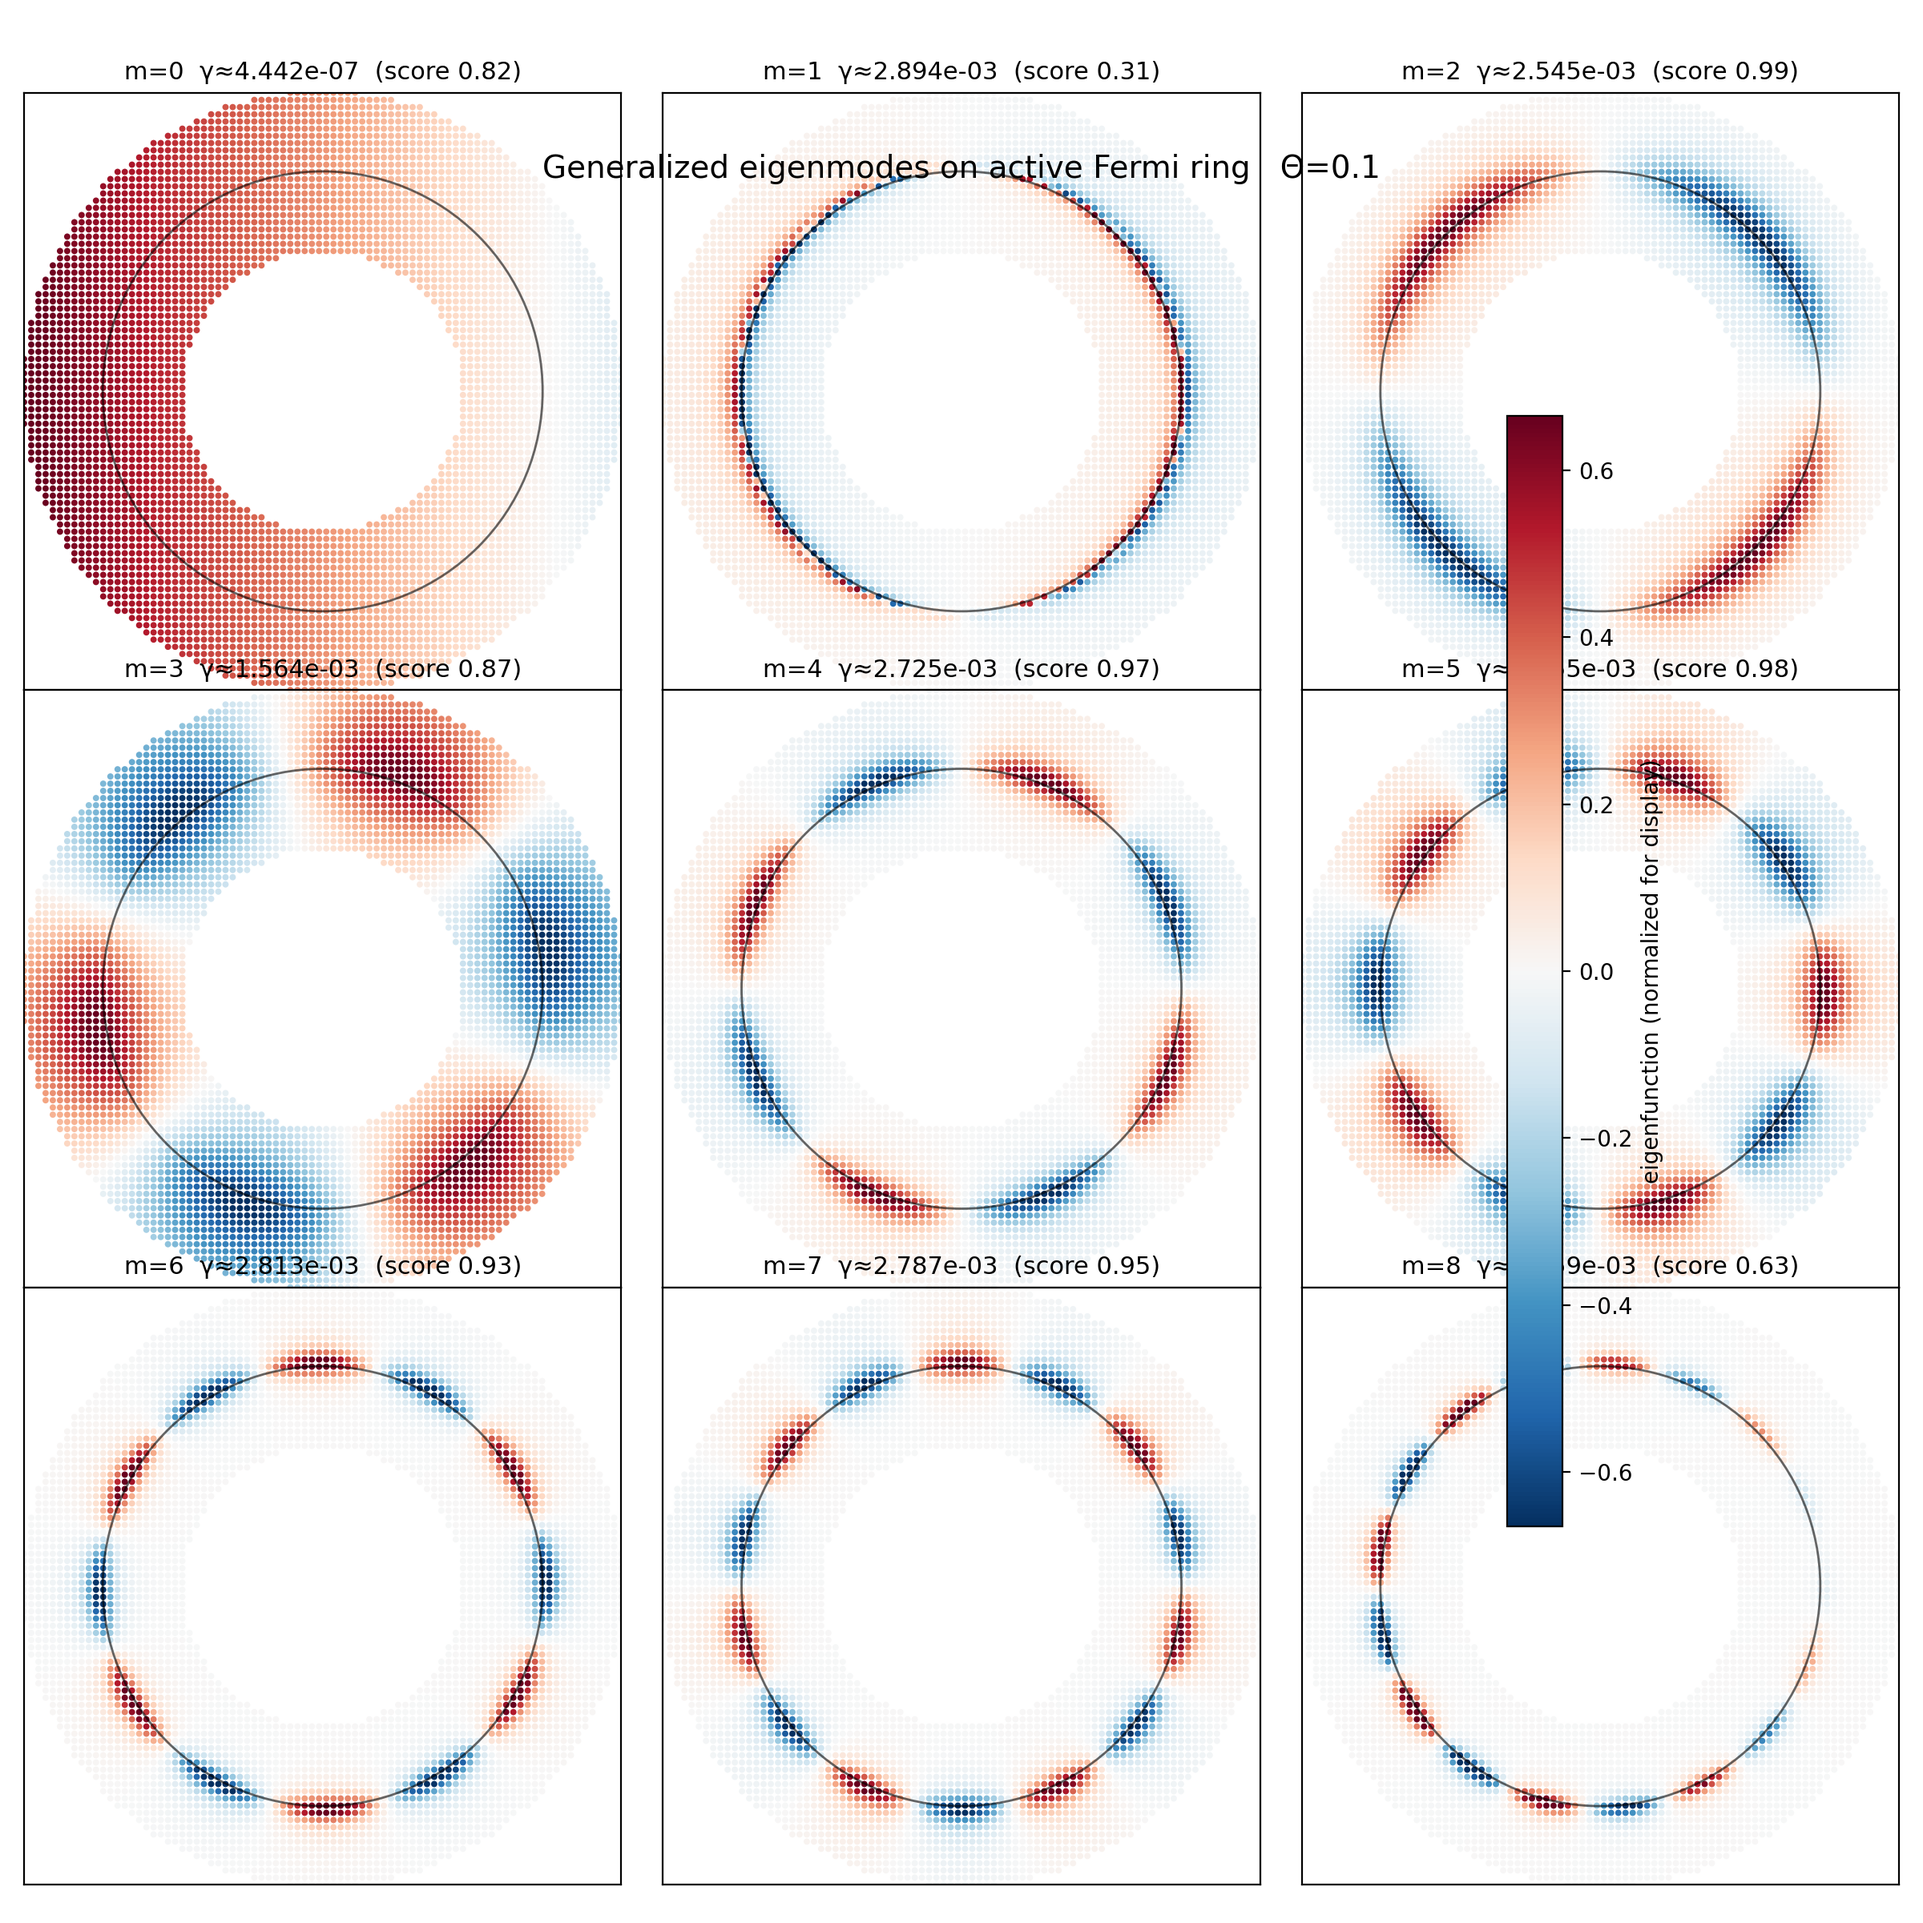
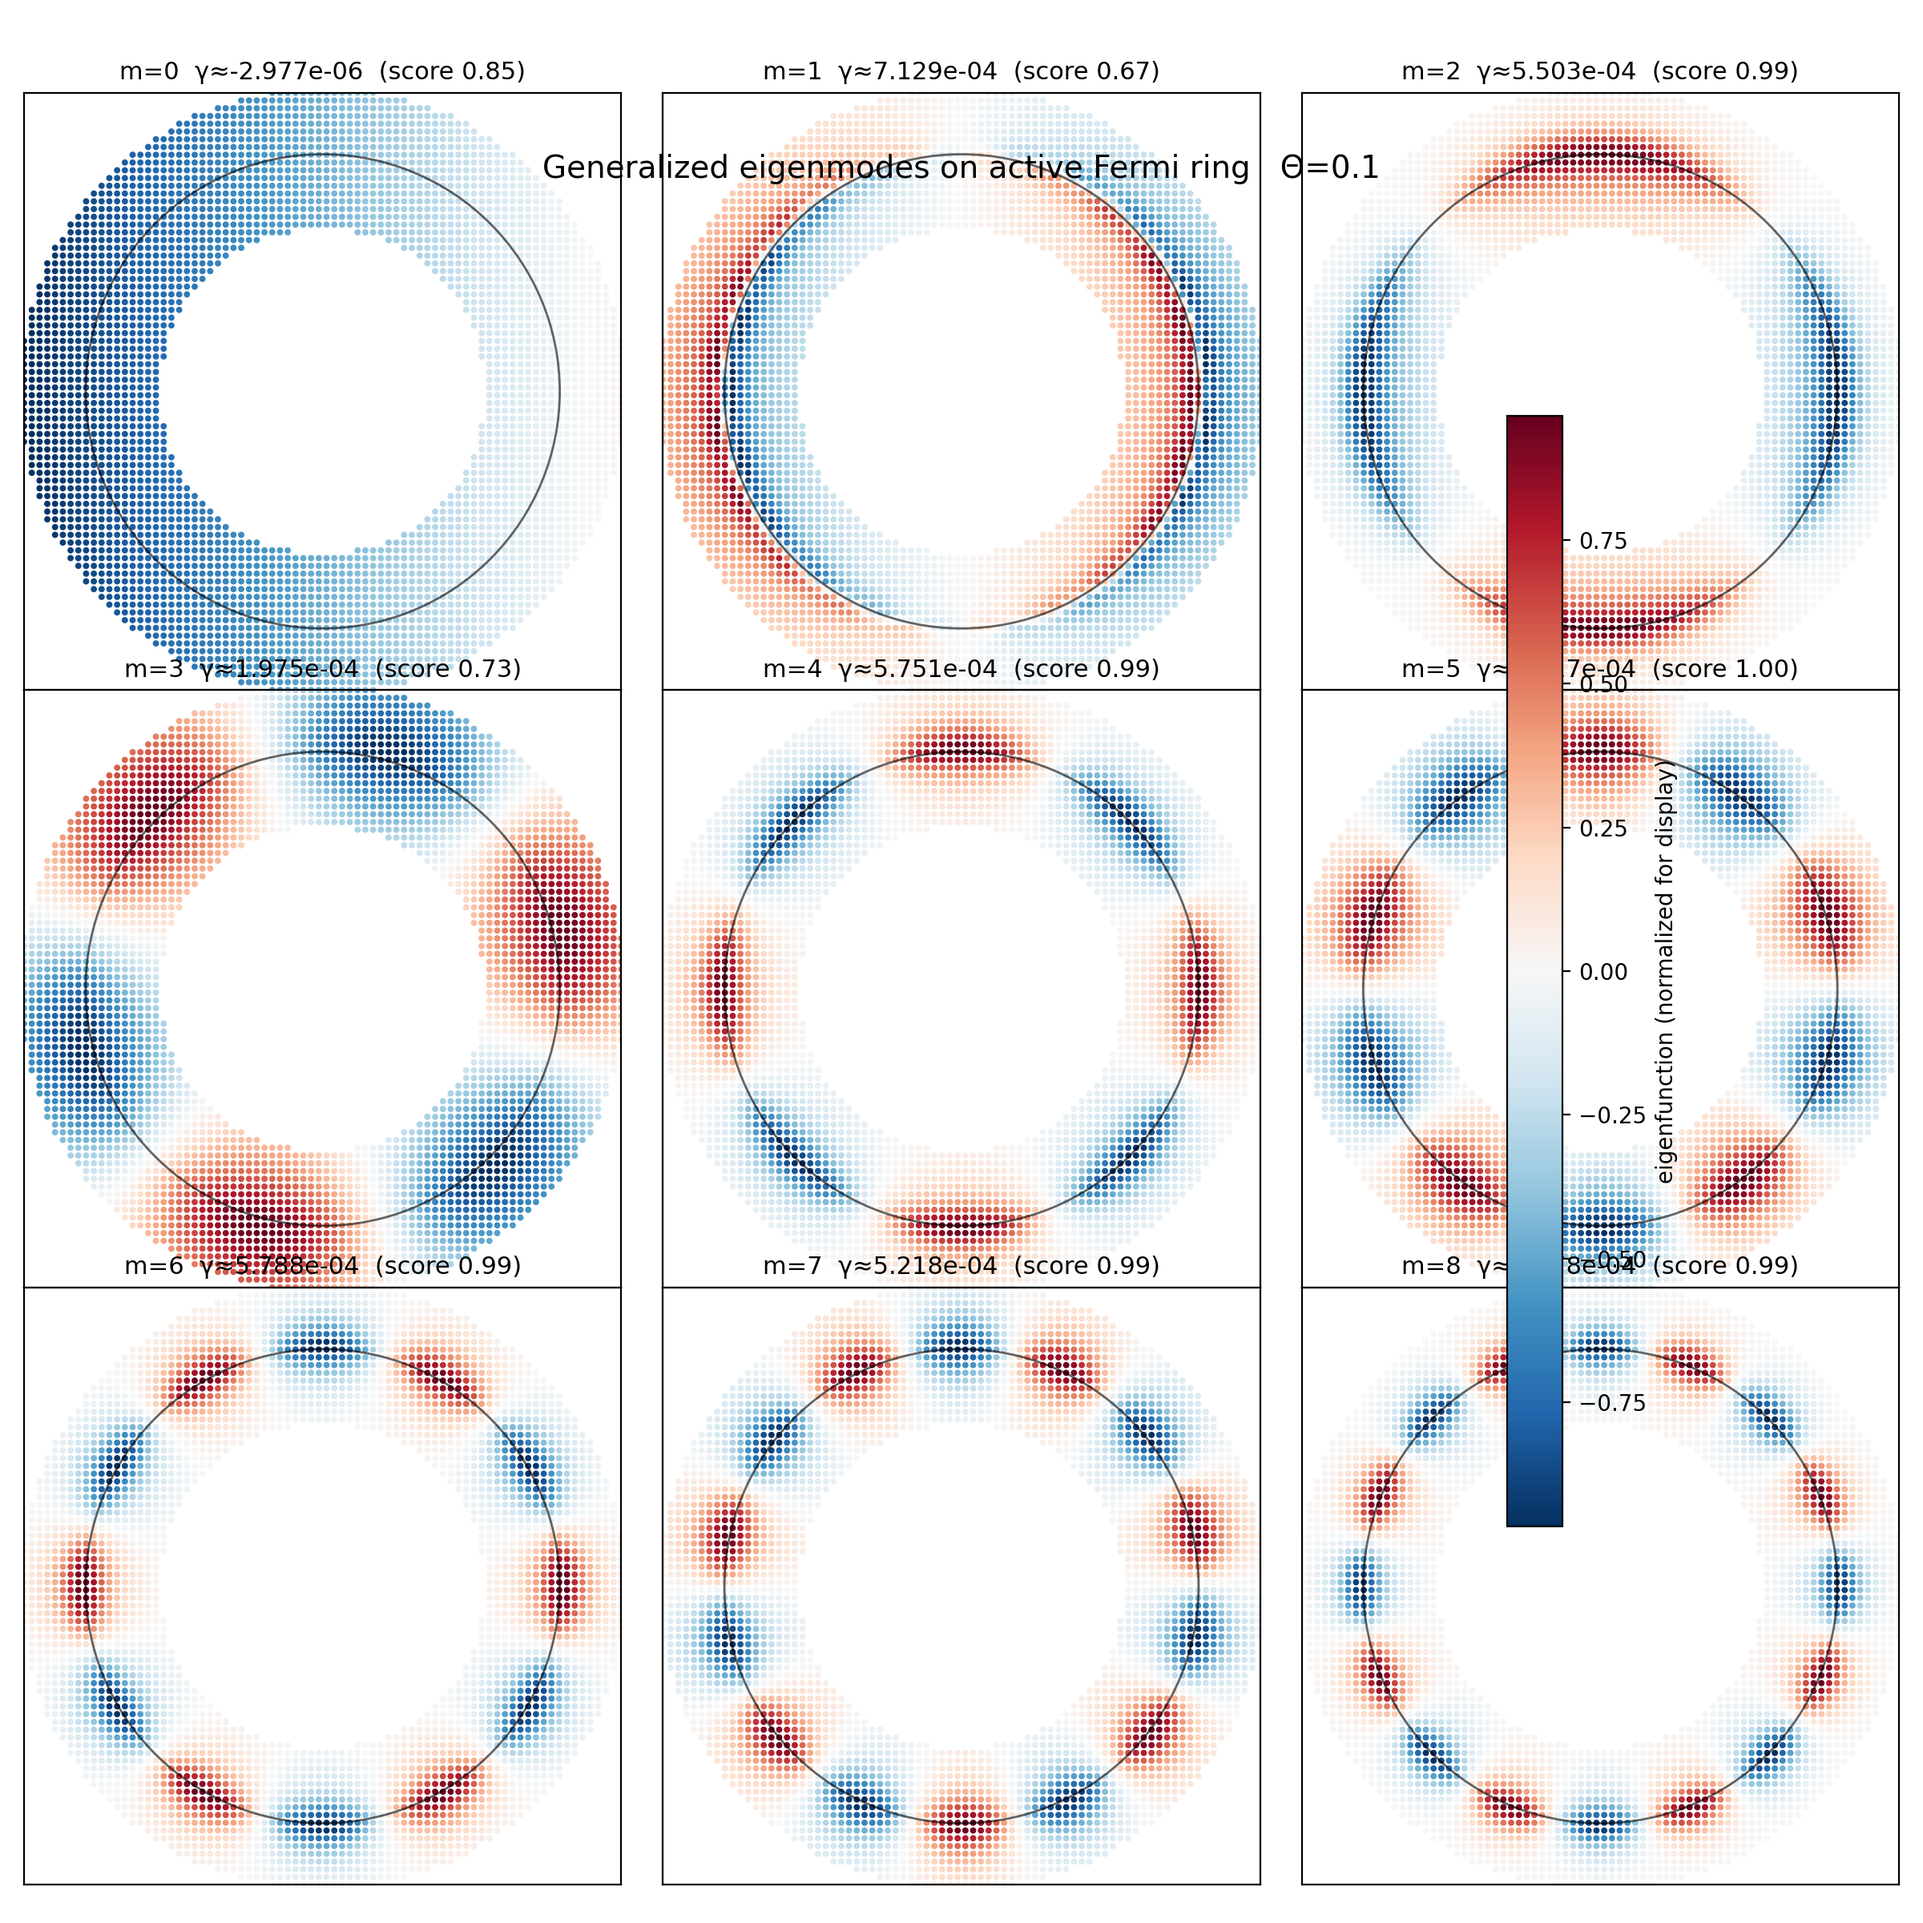
Clearer m detection (outdated)

Changed region(s): [[0.0, 0.0312, 0.7812, 1.0], [0.6875, 0.0312, 1.0, 0.9688]]

diff --git a/kryhin_levitov_2021/collision_integral_direct/Matrixes_bruteforce/Iee_eigs_ringplot_nonparabolic.py b/kryhin_levitov_2021/collision_integral_direct/Matrixes_bruteforce/Iee_eigs_ringplot_nonparabolic.py
@@ -36,6 +36,16 @@ from scipy.sparse.linalg import eigsh, LinearOperator
 
 import matplotlib.pyplot as plt
 
+# plt.rcParams['text.usetex'] = True
+plt.rcParams['font.family'] = 'serif'
+plt.rcParams["legend.frameon"] = False
+plt.rcParams['font.size'] = 16
+plt.rcParams['axes.labelsize'] = 16
+plt.rcParams['axes.titlesize'] = 16
+plt.rcParams['xtick.labelsize'] = 16
+plt.rcParams['ytick.labelsize'] = 16
+plt.rcParams['legend.fontsize'] = 16
+plt.rcParams['figure.titlesize'] = 16
 
 # ------------------------- band helpers (FULL dispersion) -------------------------
 
@@ -338,6 +348,11 @@ def pick_modes_by_overlap(gammas, eta, w, theta, px, py, P, meta, mmax=8, includ
     chosen = {}
     diag = {}
 
+    # Build invariant basis for orthogonalization (same as m>=2)
+    inv_basis = [t_den, t_px, t_py]
+    if include_energy_invariant:
+        inv_basis.append(t_E)
+
     # pick best eigenvector for each invariant by overlap, and mark as used
     if have_inv_evecs:
         # Find momentum invariants (and optionally energy)
@@ -373,12 +388,15 @@ def pick_modes_by_overlap(gammas, eta, w, theta, px, py, P, meta, mmax=8, includ
     else:
         # Momentum invariants were projected out; pick m=0 based on density availability
         if have_density_evec:
-            # Pick m=0 as best match to density template
+            # Apply same logic as m>=2: orthogonalize density template against other invariants
+            # Orthogonalize against momentum (and energy if included), but not against itself
+            t_den_ortho = orthogonalize_to_basis(t_den, [t_px, t_py] + ([t_E] if include_energy_invariant else []), w)
+            # Pick m=0 as best match to orthogonalized density template
             best_i, best_s = None, -1.0
             for i in range(k):
                 if i in used:
                     continue
-                s = abs(overlap(eta[:, i], t_den, w))
+                s = abs(overlap(eta[:, i], t_den_ortho, w))
                 if s > best_s:
                     best_s, best_i = s, i
             chosen[0] = best_i
@@ -430,13 +448,16 @@ def pick_modes_by_overlap(gammas, eta, w, theta, px, py, P, meta, mmax=8, includ
             "note": f"frac={frac:.3e} < {FRAC_THR}; current≈momentum",
         }
     else:
-        # use decaying-current mode from j_perp
+        # Apply same logic as m>=2: orthogonalize j_perp against full invariant basis
+        jperp_x_ortho = orthogonalize_to_basis(jperp_x, inv_basis, w)
+        jperp_y_ortho = orthogonalize_to_basis(jperp_y, inv_basis, w)
+        # use decaying-current mode from orthogonalized j_perp
         best_i, best_s = None, -1.0
         for i in range(k):
             if i in used:
                 continue
-            ovx = overlap(eta[:, i], jperp_x, w)
-            ovy = overlap(eta[:, i], jperp_y, w)
+            ovx = overlap(eta[:, i], jperp_x_ortho, w)
+            ovy = overlap(eta[:, i], jperp_y_ortho, w)
             s = float(np.sqrt(ovx * ovx + ovy * ovy))
             if s > best_s:
                 best_s, best_i = s, i
@@ -457,9 +478,7 @@ def pick_modes_by_overlap(gammas, eta, w, theta, px, py, P, meta, mmax=8, includ
 
     # ---------- Angular harmonics m>=2 ----------
     # Remove invariant subspace from angular templates to avoid accidentally selecting conserved modes
-    inv_basis = [t_den, t_px, t_py]
-    if include_energy_invariant:
-        inv_basis.append(t_E)
+    # (inv_basis already defined earlier)
 
     for m in range(2, mmax + 1):
         tc = orthogonalize_to_basis(np.cos(m * theta), inv_basis, w)
@@ -485,19 +504,40 @@ def pick_modes_by_overlap(gammas, eta, w, theta, px, py, P, meta, mmax=8, includ
 # ------------------------- plotting -------------------------
 
 def ring_scatter(ax, px, py, val, title=""):
-    # Robust color limits
-    vmax = np.percentile(np.abs(val), 99.0)
+    # Robust color limits, normalized *per panel*
+    vmax = float(np.max(np.abs(val))) if val.size > 0 else 1.0
     if vmax <= 0:
         vmax = 1.0
-    sc = ax.scatter(px, py, c=val, s=6, vmin=-vmax, vmax=vmax)
+    c_plot = val / vmax
+
+    # Choose square marker size based on number of k-points so the ring looks filled
+    n_pts = len(px)
+    if n_pts < 200:
+        msize = 60  # few points → make squares large
+    elif n_pts < 1000:
+        msize = 16  # typical resolution for these files
+    else:
+        msize = 6   # very dense sampling → smaller squares
+
+    # Use square "pixel-like" markers without edges to avoid white gaps between points
+    sc = ax.scatter(
+        px,
+        py,
+        c=c_plot,
+        s=msize,
+        marker="s",
+        cmap="RdBu_r",
+        linewidths=0,
+        edgecolors="none",
+    )
     ax.set_aspect("equal", "box")
-    ax.set_title(title, fontsize=10)
+    ax.set_title(title)
     ax.set_xticks([])
     ax.set_yticks([])
     return sc
 
-def make_figure(px, py, modes, gammas, mu_phys, U_band, Theta, out_prefix, eta0_override=None):
-    fig, axes = plt.subplots(3, 3, figsize=(11, 10))
+def make_figure(px, py, modes, gammas, mu_phys, U_band, Theta, out_prefix, w, eta0_override=None):
+    fig, axes = plt.subplots(3, 3, figsize=(10.2, 10))
     axes = axes.ravel()
 
     mlist = list(range(0, 9))
@@ -516,22 +556,34 @@ def make_figure(px, py, modes, gammas, mu_phys, U_band, Theta, out_prefix, eta0_
             else:
                 val = modes["_eta"][:, idx]
                 g = gammas[idx]
+        # Multiply by f*(1-f) = w to plot eta*f*(1-f)
+        val = val * w
+        # LaTeX-safe title (avoid raw Unicode when text.usetex=True)
+        # Format gamma as a·10^{b} instead of 1e{b}
+        g_str = f"{g:.3e}"
+        mant_str, exp_str = g_str.split("e")
+        exp_int = int(exp_str)
+        title = fr"$m={m},\ \gamma={mant_str}\cdot 10^{{{exp_int}}}$"
         last_sc = ring_scatter(
-            axes[j], px, py, val,
-            title=f"m={m}   γ={g:.3e}"
+            axes[j],
+            px,
+            py,
+            val,
+            title=title,
         )
 
-    fig.suptitle(f"Non-parabolic Iee modes on active shell | μ={mu_phys:g}, U={U_band:g}, Θ={Theta:g}", fontsize=12)
+    # LaTeX-safe super-title using math mode for Greek symbols
+    fig.suptitle(fr"$\mu={mu_phys:g},\ U={U_band:g},\ \Theta={Theta:g}$")
 
     # Add one shared colorbar
-    cbar = fig.colorbar(last_sc, ax=axes.tolist(), shrink=0.85, pad=0.02)
-    cbar.set_label("η(px,py)")
+    # cbar = fig.colorbar(last_sc, ax=axes.tolist(), shrink=0.85, pad=0.02)
+    # cbar.set_label("η(px,py)")
 
-    fig.tight_layout(rect=[0, 0, 1, 0.96])
+    fig.tight_layout(rect=[0, 0, 1, 0.98])
 
     png = out_prefix + ".png"
     pdf = out_prefix + ".pdf"
-    # fig.savefig(png, dpi=250)
+    fig.savefig(png, dpi=250)
     # fig.savefig(pdf)
     print(f"Saved: {png}")
     print(f"Saved: {pdf}")
@@ -786,7 +838,7 @@ def main():
         # Plot 3x3 (m=0..8)
         base = os.path.splitext(os.path.basename(path))[0]
         out_prefix = f"ring_modes_{base}_mu{mu_phys:g}_U{U_band:g}_T{Theta:g}"
-        make_figure(px, py, chosen, gammas, mu_phys, U_band, Theta, out_prefix, eta0_override=eta0_override)
+        make_figure(px, py, chosen, gammas, mu_phys, U_band, Theta, out_prefix, w, eta0_override=eta0_override)
 
         if args.show:
             plt.show()
@@ -796,3 +848,7 @@ def main():
 
 if __name__ == "__main__":
     main()
+
+
+#python Iee_eigs_ringplot_nonparabolic.py --dir mu10 --k 80 --mmax 8 --csv_out gamma_vs_T_mu1_U1.csv --csv_overwrite
+#python Iee_eigs_ringplot_nonparabolic.py --pkl "D:\Рабочая папка\GitHub\electronic-kapitsa-waves\kryhin_levitov_2021\collision_integral_direct\Matrixes_bruteforce\M_Iee_N320_dp0.032716515_T0.1.pkl" --k 80 --mmax 8 --csv_out gamma_vs_T_mu1_U1.csv --csv_overwrite
